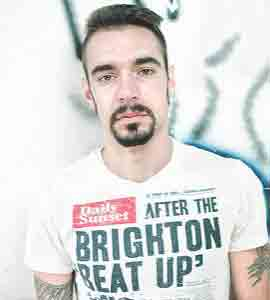
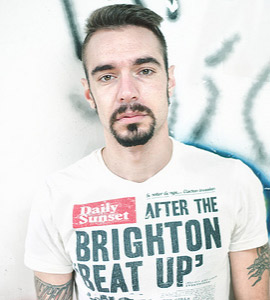
fixing line height on team P tags and changing team images

diff --git a/src/css/styles.css b/src/css/styles.css
@@ -748,6 +748,7 @@ button {
   color: #666666;
   font-size: 12px;
   color: #666666;
+  line-height: 1.5;
 }
 
 /* line 1, ../sass/facts.scss */
@@ -1005,7 +1006,8 @@ button {
   background: #191919 url("/src/images/map.jpg");
   min-height: 200px;
   max-height: 200px;
-  border-bottom: 5px #000 solid;
+  border-top: 1px #000 solid;
+  border-bottom: 4px #000 solid;
 }
 
 /* line 1, ../sass/footer.scss */

diff --git a/src/sass/map.scss b/src/sass/map.scss
@@ -2,5 +2,6 @@
 	background: #191919 url('/src/images/map.jpg');
 	min-height: 200px;
 	max-height: 200px;
-	border-bottom: 5px $black solid;
+	border-top: 1px $black solid;
+	border-bottom: 4px $black solid;
 }	

diff --git a/src/sass/team.scss b/src/sass/team.scss
@@ -25,5 +25,6 @@
 		color: $mediumgray;
 		font-size: 12px;
 		color: $mediumgray;
+		line-height: 1.5;
 	}
 }
